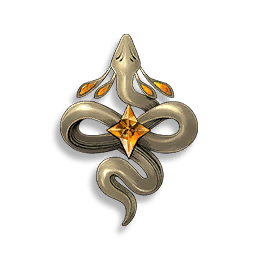
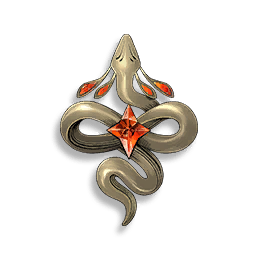
feat(数据): 添加mod图标并更新相关数据
为多个mod添加图标字段并更新相关属性数据

diff --git a/src/data/d/mod.data.ts b/src/data/d/mod.data.ts
@@ -7604,6 +7604,7 @@ const p = [
     },
     {
         id: 56161,
+        icon: "Changeling01_Orange",
         耐受: 25,
         效果: "技能耐久大于等于130.0%时，自身获得{%}光属性追加伤害",
         生效: {
@@ -7613,6 +7614,7 @@ const p = [
     },
     {
         id: 56162,
+        icon: "Siren01_Orange",
         耐受: 45,
         神智: 1.65,
         技能效益: 0.44,
@@ -7625,6 +7627,7 @@ const p = [
     },
     {
         id: 56163,
+        icon: "Changeling01_Orange",
         耐受: 25,
         效果: "技能耐久大于等于130.0%时，自身及队友暴击率提高{%}",
         生效: {
@@ -7634,6 +7637,7 @@ const p = [
     },
     {
         id: 56164,
+        icon: "Siren01_Orange",
         耐受: 45,
         神智: 1.65,
         技能效益: 0.44,
